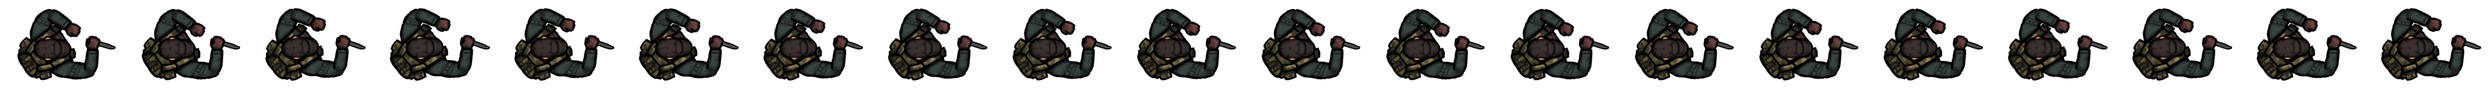
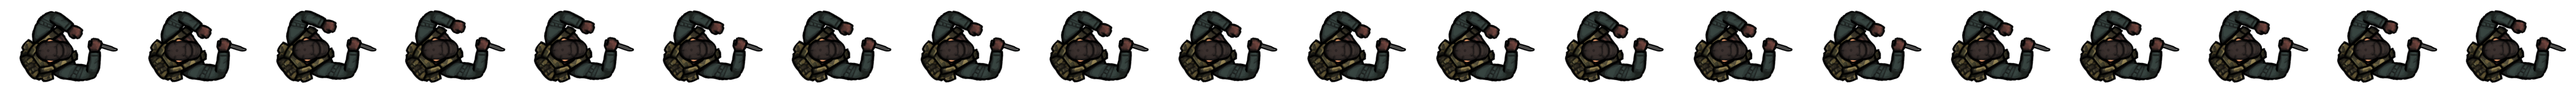
Fixed sprite but having odd speed issues. Need to use function binding in animation too.

Changed region(s): [[0.0, 0.0938, 0.9965, 0.8438], [0.4671, 0.0938, 0.5294, 0.2812], [0.9654, 0.0938, 0.9965, 0.1562]]

diff --git a/engine.js b/engine.js
@@ -15,7 +15,7 @@ cleanup()
 
 
 function Engine(canvas) {
-    
+        
     this.canvas = canvas;
     this.context = canvas.getContext("2d");
     
@@ -28,16 +28,29 @@ function Engine(canvas) {
     var renderTrackingIndex = 0;
     var renderHistory = new Array(this.renderTrackingCount);
     
-    this.a;
+    var setup = function() {
+        this.setup();
+        this.loadAssets(load);
+    }
     
-    var update = function() {   
+    var load = (function() {
+        this.load();
+        start();
+    }).bind(this);
+    
+    var start = (function() {
+        setInterval(update, this.updateInterval);
+        render();
+    }).bind(this);
+    
+    var update = (function() {   
         var delta = Date.now() - updateTime;
         updateTime = Date.now();
         this.update(delta);
-    }
+    }).bind(this);
     
-    var render = function() {
-        requestAnimationFrame(render.bind(this));
+    var render = (function() {
+        requestAnimationFrame(render);
         var delta = Date.now() - renderTime;
         renderTime = Date.now();
         this.render(delta);
@@ -46,46 +59,21 @@ function Engine(canvas) {
         renderTrackingIndex++;
         if (renderTrackingIndex == renderTrackingCount) 
             renderTrackingIndex = 0;
-    }
+    }).bind(this)
     
-    this.setup = function() {
-        this.queueAsset("player:knife:idle", ANIMATION, "assets/player/knife/move.png", {columns: 20});
-        var that = this;
-        this.loadAssets(function() { that.load(); });
-    }
+    this.setup = function() {}
     
-    this.load = function() {
-        this.a = this.getAsset("player:knife:idle");
-        this.a.play();
-        this.start();
-    }
-        
-    this.start = function() {
-        setInterval(update.bind(this), this.updateInterval);
-        render.call(this);
-    }
+    this.load = function() {}
     
     this.update = function(delta) {}
     
-    this.render = function(delta) {
-        this.context.fillStyle = "white";
-        this.context.fillRect(0, 0, this.canvas.width, this.canvas.height);
-        this.context.fillStyle = "black";
-        this.context.textAlign = "left";
-        this.context.textBaseline = "hanging";
-        this.context.font = "16px Verdana";
-        this.context.fillText(Math.floor(this.fps()) + " fps", 10, 10)
-        
-        this.context.drawAnimation(this.a, 50, 50);
-    }
+    this.render = function(delta) {}
     
     this.stop = function() {}
     
     this.cleanup = function() {}
     
-    this.main = function() {
-        this.setup();
-    }
+    this.main = function() { setup.call(this); }
     
     this.fps = function() {
         return renderHistory

diff --git a/demo.js b/demo.js
@@ -1,0 +1,27 @@
+function Demo(canvas) {
+
+    Engine.call(this, canvas);
+    
+    this.setup = function() {
+        this.queueAsset("player:knife:idle", ANIMATION, "assets/player/knife/melee.png", {columns: 15});
+    }
+    
+    this.load = function() {
+        this.a = this.getAsset("player:knife:idle");
+        this.a.play();
+    }
+    
+    this.render = function(delta) {
+        this.context.fillStyle = "white";
+        this.context.fillRect(0, 0, this.canvas.width, this.canvas.height);
+        this.context.fillStyle = "black";
+        this.context.textAlign = "left";
+        this.context.textBaseline = "hanging";
+        this.context.font = "16px Verdana";
+        this.context.fillText(Math.floor(this.fps()) + " fps", 10, 10);
+        this.context.drawAnimation(this.a, 50, 50);
+    }
+
+}
+
+Demo.prototype = Engine.prototype;

diff --git a/index.html b/index.html
@@ -20,7 +20,7 @@
             var engine;
             function main() {
                 var canvas = document.getElementById("canvas");
-                engine = new Engine(canvas);
+                engine = new Demo(canvas);
                 engine.main();
             }
         </script>
@@ -31,6 +31,7 @@
         <script type="text/javascript" src="event.js"></script>
         <script type="text/javascript" src="engine.js"></script>
         <script type="text/javascript" src="animation.js"></script>
+        <script type="text/javascript" src="demo.js"></script>
         <script type="text/javascript">
             main();
         </script>

diff --git a/animation.js b/animation.js
@@ -96,7 +96,7 @@ CanvasRenderingContext2D.prototype["drawAnimation"] = function(animation, dx, dy
     var h = image.height / r;
     var x = (i % c) * w;
     var y = Math.floor(i / c) * h;
-    
+        
     this.drawImage(image, x, y, w, h, dx, dy, dWidth || w, dHeight || h);
 
 }
